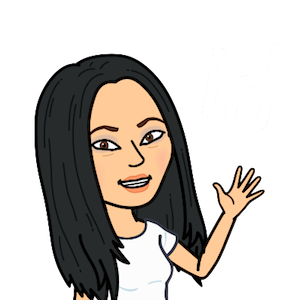
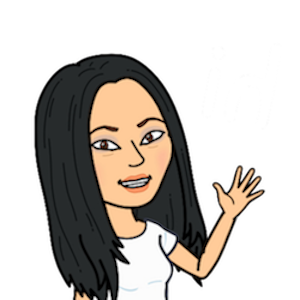
Made About Me secion responsive

diff --git a/index.html b/index.html
@@ -11,62 +11,49 @@
   <link href="https://fonts.googleapis.com/icon?family=Material+Icons" rel="stylesheet">
   <link href="css/materialize.css" type="text/css" rel="stylesheet" media="screen,projection"/>
   <link href="css/style.css" type="text/css" rel="stylesheet" media="screen,projection"/>
+  <link rel="icon" type="image/png" href="images/Bitmoji/bitmoji-0.png">
 </head>
 <body>
-  <!-- Navigation bar-->
-  <nav class="grey lighten-3" role="navigation">
-    <div class="nav-wrapper container">
-      <ul class="hide-on-med-and-down">
-        <li><a href="#AboutMe">$whoami</a></li>
-        <li><a href="#Projects">$projects</a></li>
-        <li><a href="#Images">$img</a></li>
-      </ul>
-
-      <ul id="nav-mobile" class="side-nav">
-        <li><a href="#AboutMe"><i class="material-icons">person</i>AboutMe</a></li>
-        <li><a href="#Projects"><i class="material-icons">folder_open</i>Projects</a></li>
-        <li><a href="#Images"><i class="material-icons">photo_camera</i>Gallery</a></li>
-      </ul>
-      <a href="#" data-activates="nav-mobile" class="button-collapse "><i class="material-icons">menu</i></a>
-    </div>
-  </nav>
 
   <!-- AboutMe container-->
   <div id="AboutMe" class="container">
-    <div class="section no-padding">
-        <div class="row hide-on-small-only">
-            <div class="col s6">
-                <img id="bitmoji" alt="Waving Bitmoji" src="images/Bitmoji/bitmoji-0.png">
+    <div class="section">
+        <br>
+        <div class="row">
+			<div class="col s6 center">
+				<br>
+                <img id="bitmoji" class="circle responsive-img" alt="Waving Bitmoji" src="images/Bitmoji/bitmoji-0.png">
             </div>
-            <div class="col s6">
+			<div class="col s6">
                 <h2 class="black-text left-align">Mimi Chen</h2>
                 <h5 class="grey-text left-align"><i>Be the best version of you.<br>Check for updates? <i class="material-icons">search</i></i></h5>
-                <p class="black-text left-align">
+                <p class="black-text left-align hide-on-small-only">
                     <i class="material-icons">computer</i> Senior CS student
                     <br>
                     <i class="material-icons">school</i> University of Notre Dame
                     <br>
-                    <i class="material-icons">group</i>Leader of ND CSE LeanIn
+                    <i class="material-icons">group</i> Leader of ND CSE LeanIn
                     <br>
-                    <i class="material-icons">flight</i>Travel enthusiast
+                    <i class="material-icons">flight</i> Travel enthusiast
                 </p>
             </div>
         </div>
-        <div class="row hide-on-med-and-up">
-            <div class="col s12 center">
-                <h2 class="black-text left-align no-pad-bot">Mimi Chen</h2>
-                <img id=alt="Waving Bitmoji" src="images/Bitmoji/bitmoji-0.png">
-                <h5 class="grey-text left-align"><i>Be the best version of you.<br>Check for updates? <i class="material-icons">search</i></i></h5>
-                <p class="black-text left-align">
+        <div class="row hide-on-med-and-up padding-top">
+                <p class="black-text left-align ">
+                    <div class="col s6">
                     <i class="material-icons">computer</i> Senior CS student
-                    <br>
-                    <i class="material-icons">school</i> University of Notre Dame
-                    <br>
-                    <i class="material-icons">group</i>Leader of ND CSE LeanIn
-                    <br>
-                    <i class="material-icons">flight</i>Travel enthusiast
+                    </div>
+                    <div class="col s6">
+                    <i class="material-icons">school</i> Notre Dame
+                    </div>
+                    <div class="col s6">
+                    <i class="material-icons">group</i> ND CSE LeanIn Leader
+                    </div>
+                    <div class="col s6">
+                    <i class="material-icons">flight</i> Travel enthusiast
+                    </div>
                 </p>
-            </div>
+
         </div>
     </div>
   </div>
@@ -75,13 +62,13 @@
 <div id="Projects" class="container">
     <div class="section black-text">
         <h3 class="left-align"><i class="material-icons">folder_open</i> Projects</h3>
-        <div class="row">
+        <div class="row ">
             <!--Numberjack-->
-            <div class="card medium">
+            <div class="col l4 m6 s12 card medium">
                 <div class="card-image waves-effect waves-block waves-light">
                     <img class="activator" src="images/numberjack.png">
                 </div>
-                <div class="card-content">
+                <div class="card-content ">
                     <span class="card-title activator grey-text text-darken-4">MOBI Numberjack<i class="material-icons right">more_vert</i></span>
                     <p><a href="http://numberjack.io/">numberjack.io</a></p>
                 </div>
@@ -101,7 +88,7 @@
                 </div>
             </div>
             <!--ConnectND-->
-            <div class="card medium">
+            <div class="col l4 m6 s12 card medium">
                 <div class="card-image waves-effect waves-block waves-light">
                     <img class="activator" src="images/connectnd.png">
                 </div>
@@ -115,7 +102,7 @@
                 </div>
             </div>
             <!--Wake Forest-->
-            <div class="card medium">
+            <div class="col l4 m6 s12 card medium">
                 <div class="card-image waves-effect waves-block waves-light">
                     <img class="activator" src="images/wakeforest.png">
                 </div>
@@ -132,7 +119,7 @@
                 </div>
             </div>
             <!--Color Merge Sort-->
-            <div class="card medium">
+            <div class="card col l4 m6 s12 medium">
                 <div class="card-image waves-effect waves-block waves-light">
                     <img class="activator" src="images/colormerge.png">
                 </div>
@@ -148,7 +135,7 @@
                 </div>
             </div>
             <!--Twitter Meme Bot-->
-            <div class="card medium">
+            <div class="card col l4 m6 s12 medium">
                 <div class="card-image waves-effect waves-block waves-light">
                     <img class="activator" src="images/memebot.png">
                 </div>
@@ -162,7 +149,7 @@
                 </div>
             </div>
             <!--Food Tinder-->
-            <div class="card medium">
+            <div class="card col l4 m6 s12 medium">
                 <div class="card-image waves-effect waves-block waves-light">
                     <img class="activator" src="images/foodtinder.png">
                 </div>
@@ -188,6 +175,15 @@
         <div class="row">
             <h3 class="black-text left-align"><i class="material-icons">photo_camera</i> Gallery</h3>
         </div>
+        <div class="carousel">
+          <a class="carousel-item" href="#one!"><img src="images/travel/chicago.jpg"></a>
+          <a class="carousel-item" href="#two!"><img src="images/travel/nebraska.jpg"></a>
+          <a class="carousel-item" href="#three!"><img src="images/travel/alicante.jpg"></a>
+          <a class="carousel-item" href="#four!"><img src="images/travel/toronto.jpg"></a>
+          <a class="carousel-item" href="#five!"><img src="images/travel/horseshoe.jpg"></a>
+          <a class="carousel-item" href="#six!"><img src="images/travel/lakepowell.jpg"></a>
+          <a class="carousel-item" href="#seven!"><img src="images/travel/nola.jpg"></a>
+        </div>
     </div>
 </div>
 
@@ -195,6 +191,6 @@
   <script src="https://code.jquery.com/jquery-2.1.1.min.js"></script>
   <script src="js/materialize.js"></script>
   <script src="js/application.js"></script>
-
+  <script src="js/init.js"></script>
   </body>
 </html>

diff --git a/css/materialize.css b/css/materialize.css
@@ -2308,7 +2308,7 @@ sub {
  * Remove border when inside `a` element in IE 8/9/10.
  */
 img {
-  border: 0;
+  border: 0.5;
 }
 
 /**
@@ -3287,6 +3287,8 @@ input[type=range] + .thumb {
 
 .circle {
   border-radius: 50%;
+  border-style: solid;
+  border-color: grey;
 }
 
 .center-block {
@@ -4715,8 +4717,7 @@ small {
 
 .card {
   float: left;
-
-  margin: 0.5rem 0.5rem 1rem 1rem;
+  margin: 0.5rem 0 1rem 0;
   background-color: #fff;
   -webkit-transition: -webkit-box-shadow .25s;
   transition: -webkit-box-shadow .25s;
@@ -4766,7 +4767,6 @@ small {
 
 .card.medium {
   height: 400px;
-  width: 47%;
 }
 
 .card.large {
@@ -8235,8 +8235,8 @@ input[type=range]:focus::-ms-fill-upper {
 
 .carousel .carousel-item {
   display: none;
-  width: 200px;
-  height: 200px;
+  width: 250px;
+  height: 250px;
   position: absolute;
   top: 0;
   left: 0;

diff --git a/js/application.js b/js/application.js
@@ -1,5 +1,4 @@
 function changeBitmoji(){
-    // Get current bitmoji img
     var bitmoji=document.getElementById("bitmoji");
     path = bitmoji.src.split('/');
     image = path[path.length - 1];
@@ -7,7 +6,5 @@ function changeBitmoji(){
     image_id = (image_id + 1) % 4;
     image = "images/Bitmoji/bitmoji-" + image_id.toString() + ".png";
     bitmoji.src = image
-
-    // Set to new bitomji
 }
-window.setInterval(changeBitmoji, 3000);
+window.setInterval(changeBitmoji, 5000);

diff --git a/js/init.js b/js/init.js
@@ -1,0 +1,8 @@
+(function($){
+  $(function(){
+    $('.button-collapse').sideNav();
+  }); // end of document ready
+})(jQuery); // end of jQuery name space
+$(document).ready(function(){
+  $('.carousel').carousel();
+});
